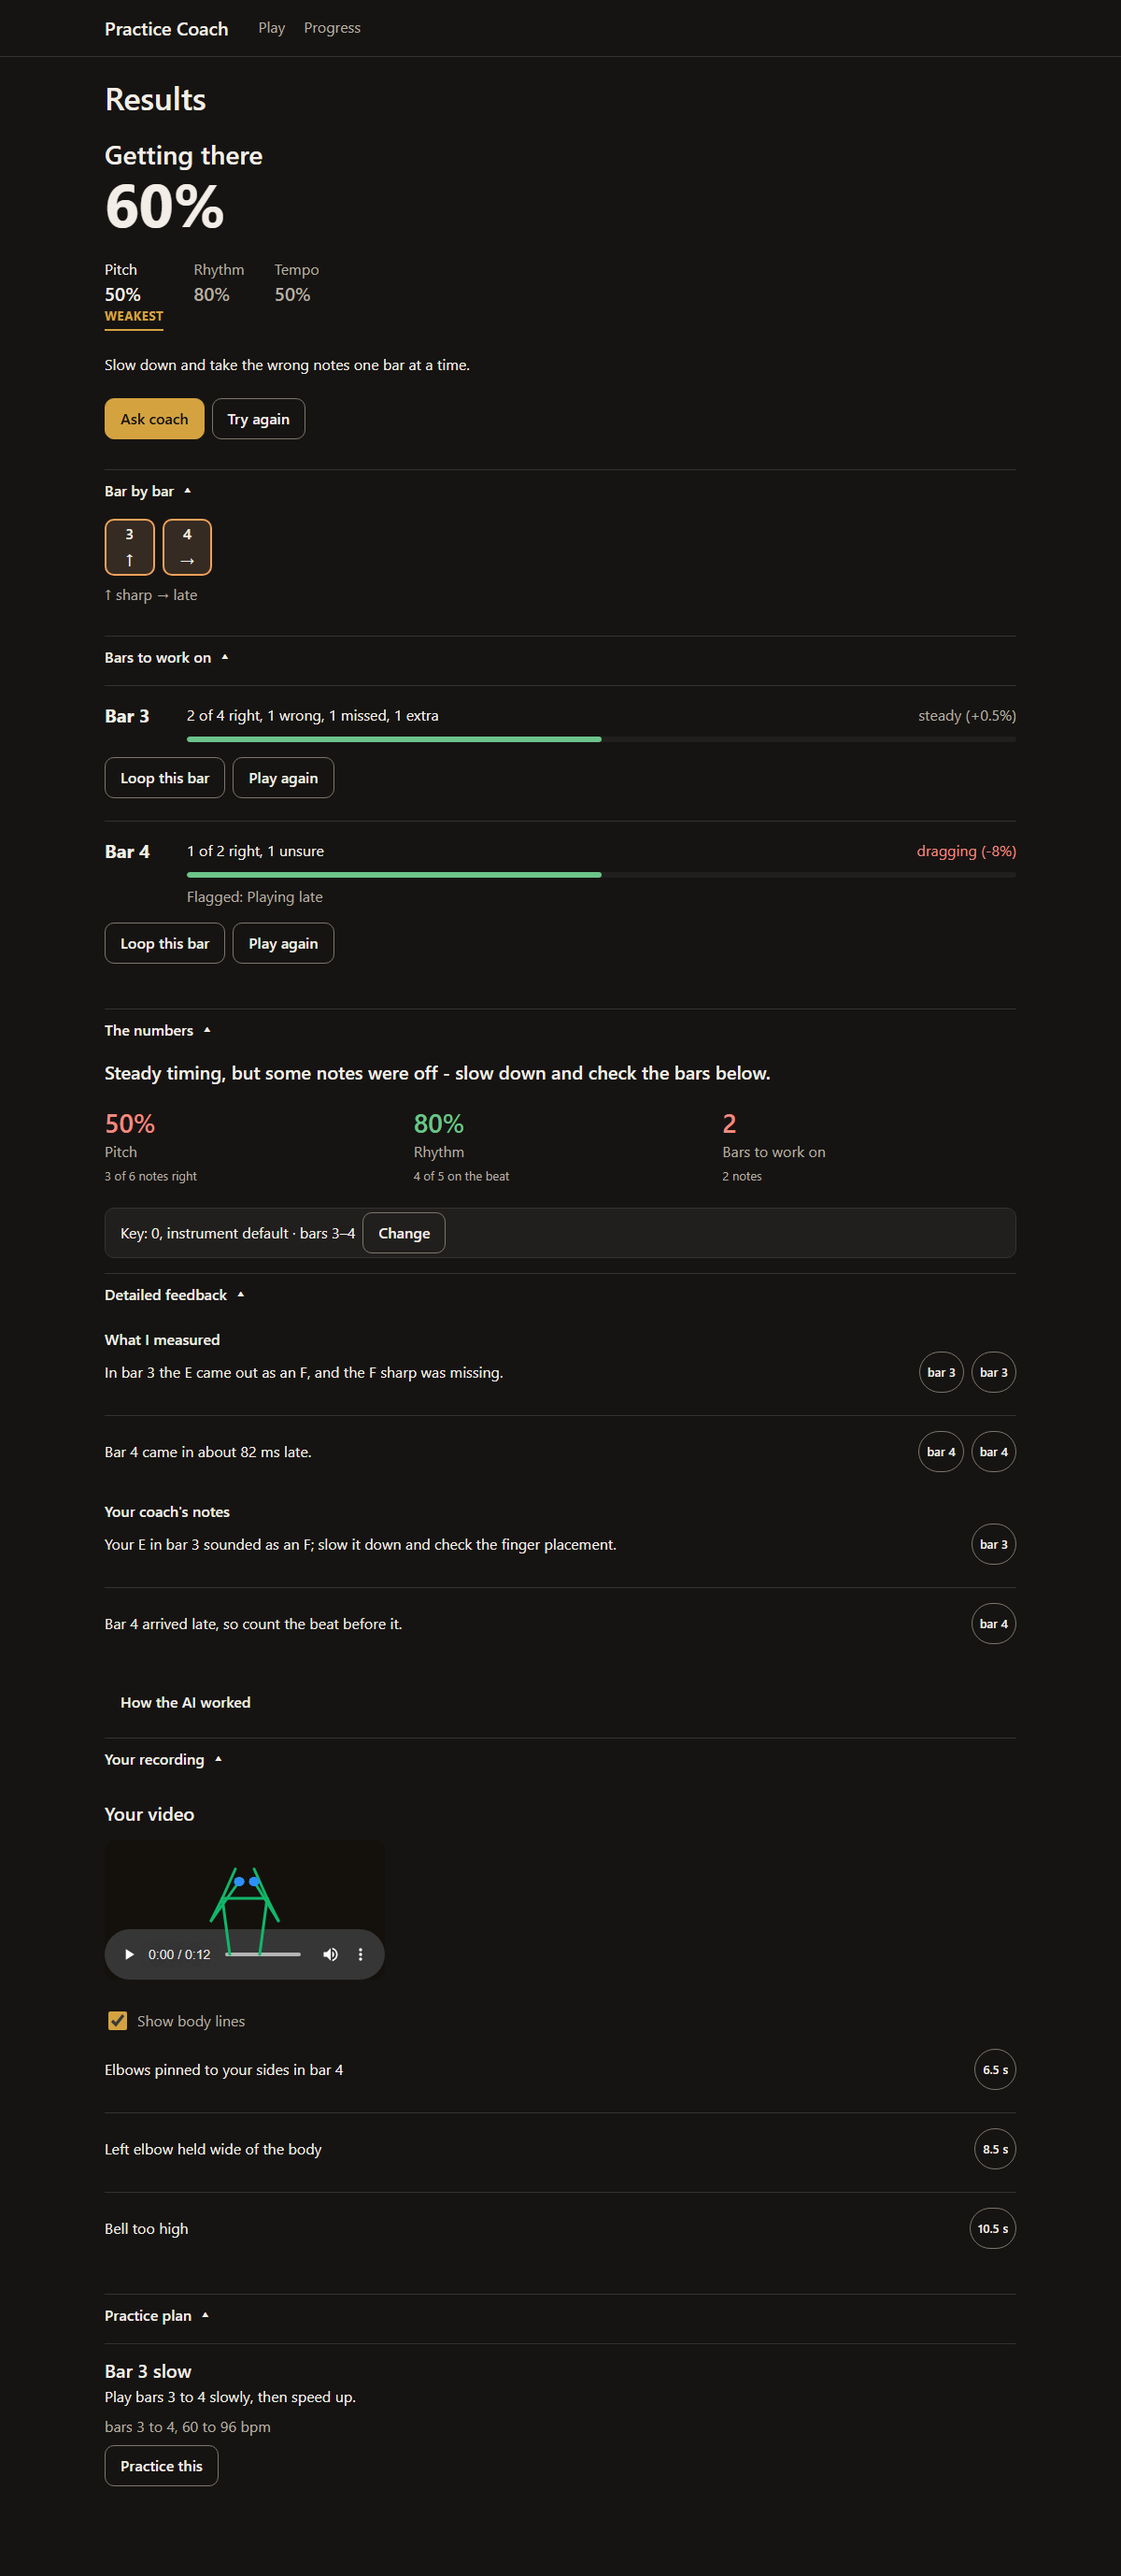
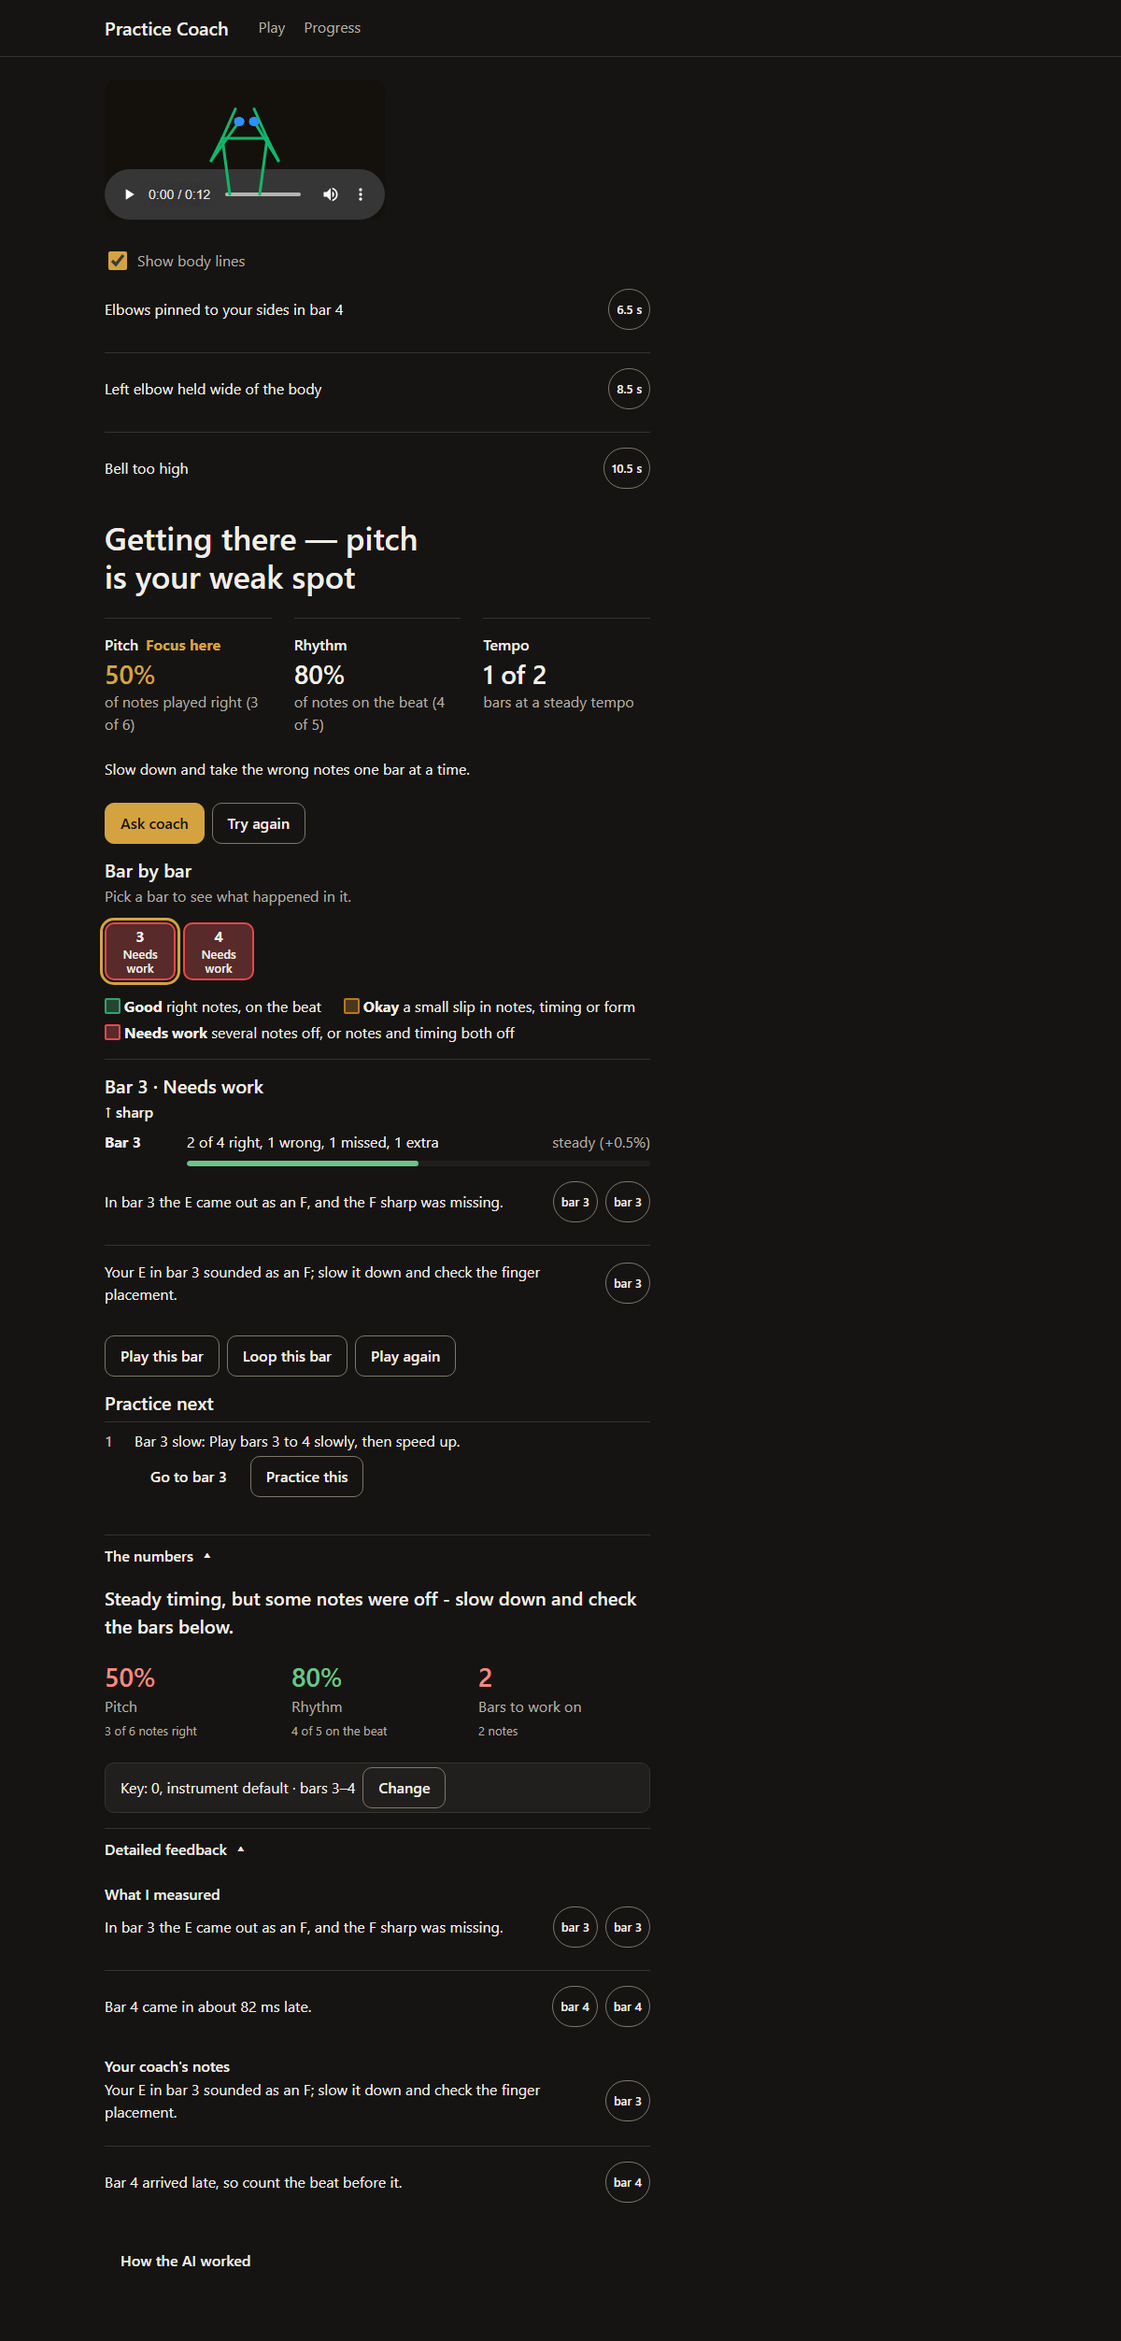
Results: browser tests for the new layout, small bar boxes on short takes, README, before/after screenshots
Browser tests now check the recording first, the verdict naming the weak spot, Focus here, the bar
boxes (words, aria-labels, worst selected first, click detail, Home/arrow keys, Play this bar),
Practice next and jumps selecting the box. Screenshots add results-mobile and results-details-mobile
(the full-page shot now keeps the mobile viewport); the old desktop shots are in dev/screens/before-results/.

.changes/none

diff --git a/frontend/css/results.css b/frontend/css/results.css
@@ -89,6 +89,7 @@ button.sentence-text:hover { color: var(--brass); text-decoration: underline; }
 .bar-strip-section h2, .practice-next h2 { margin: 0 0 var(--sp-1); }
 .bars-lead { margin: 0; }
 .bar-strip { display: grid; grid-template-columns: repeat(var(--bar-columns), minmax(44px, 1fr)); gap: var(--sp-2); margin: var(--sp-3) 0 0; }
+@media (min-width: 901px) { .bar-strip { max-width: calc(var(--bar-columns) * 5rem); } } /* a short take keeps small boxes */
 @media (max-width: 900px) { .bar-strip { grid-template-columns: repeat(6, minmax(0, 1fr)); } }
 .bar-box { display: flex; flex-direction: column; align-items: center; justify-content: center; gap: 2px; min-width: var(--tap); min-height: 56px; padding: var(--sp-1) 2px; border: 2px solid var(--fill-edge); border-radius: var(--radius); background: var(--fill); color: var(--ink); font: inherit; line-height: 1.15; cursor: pointer; }
 .bar-box-num { font-size: var(--fs-md); font-weight: 700; }

diff --git a/frontend/README.md b/frontend/README.md
@@ -126,14 +126,21 @@ The key: the back end finds it (`diagnosis/transposition.py`) and the analysis c
 `POST /sessions/{id}/transposition` (source `user`); `results/rerun.js` then waits for the analysis to show the new key and for the
 rebuilt feedback (a new feedback id) and never posts feedback itself. In mock mode a transposition POST has the same effect (`js/mock_transposition.js`).
 
+Layout, top to bottom (`results/view.js`): the recording (`results/media.js`; hidden if it cannot load), the verdict
+(`results/hero.js`: a headline naming the weakest of pitch, rhythm and tempo, each score with what it measures, "Focus here" on the
+weakest, one suggestion, Ask coach and Try again), Bar by bar (`results/strip.js`: one Good / Okay / Needs work button per bar from
+`results/bar_level.js`, arrow keys, Home and End move between them, the worst bar is selected first and its detail from
+`results/bar_detail.js` shows below), Practice next (`renderPracticeNext` in `results/plan.js`), then closed rows: The numbers and
+Detailed feedback. From 901px `#coach-root` is a sticky right column (`.results-layout` in `css/results.css`).
+
 For the overlay and chat coders:
 
 - **Video container:** `#results-media` > `.video-stage` (position: relative) > `<video>`; put the overlay canvas in `.video-stage`.
-  Beside it is an empty `#form-flag-slot` for the form flag list. `view.js`'s `renderDone` returns `{ index, jumper, player, barList, ... }`.
-- **Jumping:** `jumper.jumpTo(place)` moves the media and highlights the bar row. Form flags: `jumpTo(resolveId(flag.id, index))`
+  Beside it is an empty `#form-flag-slot` for the form flag list. `view.js`'s `renderDone` returns `{ index, jumper, player, barStrip, ... }`.
+- **Jumping:** `jumper.jumpTo(place)` moves the media and selects the bar's box in Bar by bar (scrolled into view). Form flags: `jumpTo(resolveId(flag.id, index))`
   seeks to `peak_s` exactly (sentences start 1 s early).
 - **Reusable rendering** (`results/sentences.js`): `renderSentence`, `renderSentenceList`, `renderChip`; they take a jump context
-  `{ index, jumper }` where `index = buildMeasurementIndex(analysis)` (`results/measurements.js`) and `jumper = createJumper({ player, barList })`.
+  `{ index, jumper }` where `index = buildMeasurementIndex(analysis)` (`results/measurements.js`) and `jumper = createJumper({ player, barBoxes })`.
 - The analysis has no `kind`; a take counts as video when `state.take_setup.kind === 'video'` or `form_status !== 'none'`.
 
 Mock takes for trying each state (use them as the take id): `take_1` (video), `take_mic`, `take_fallback`, `take_failed`,
